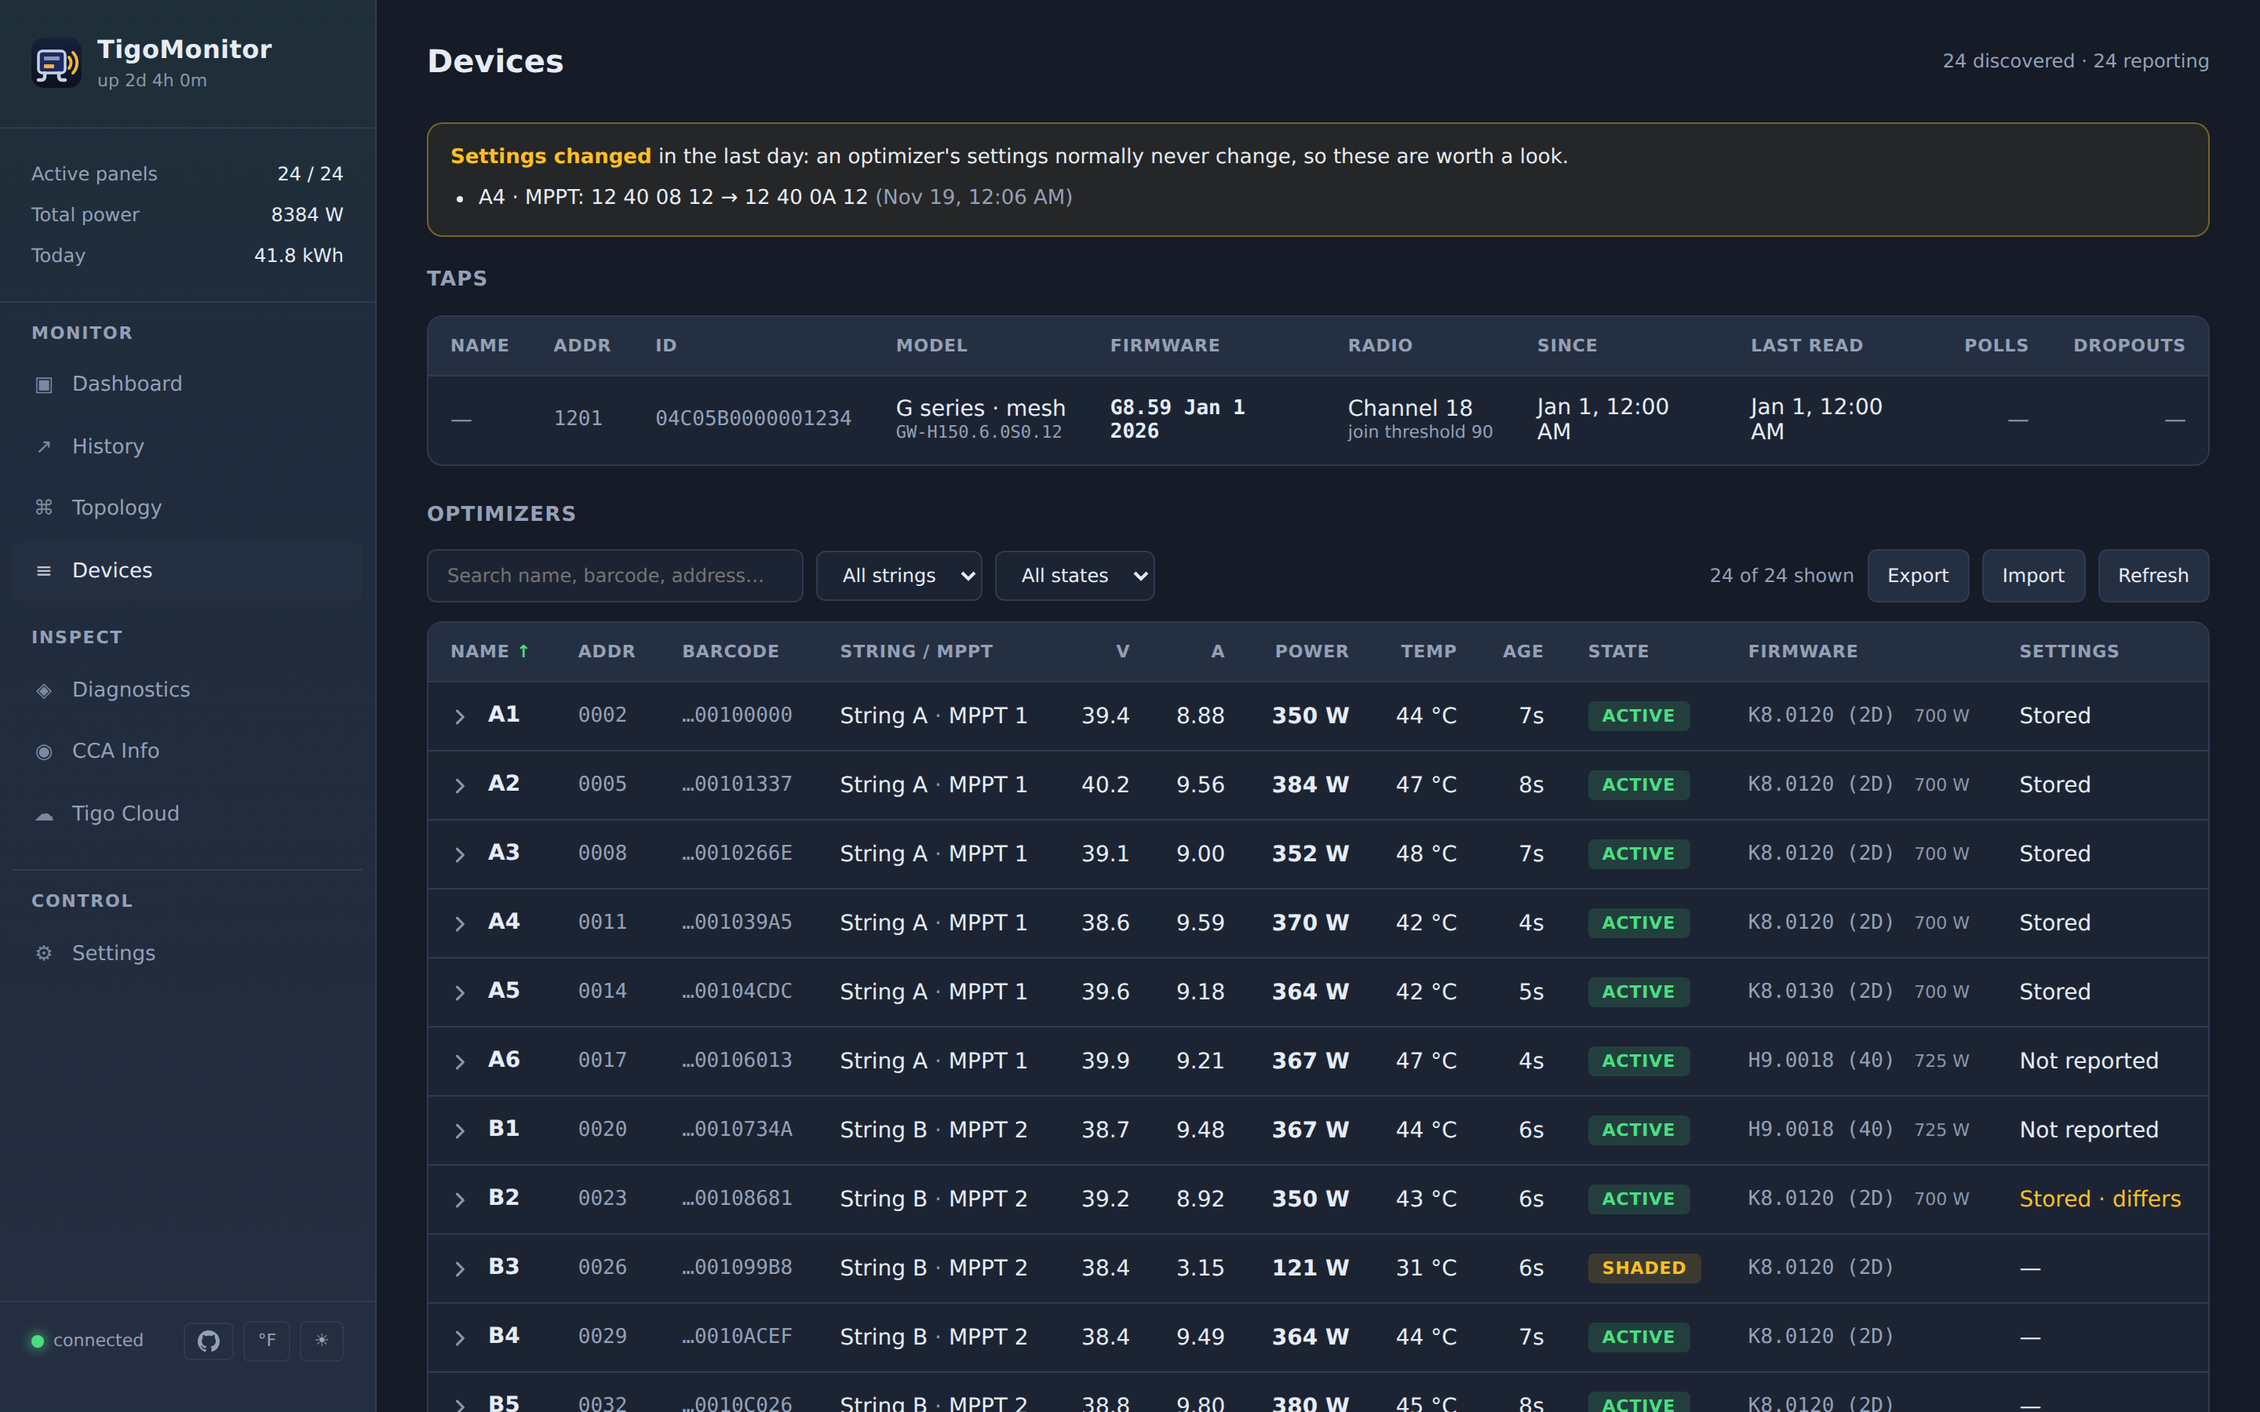
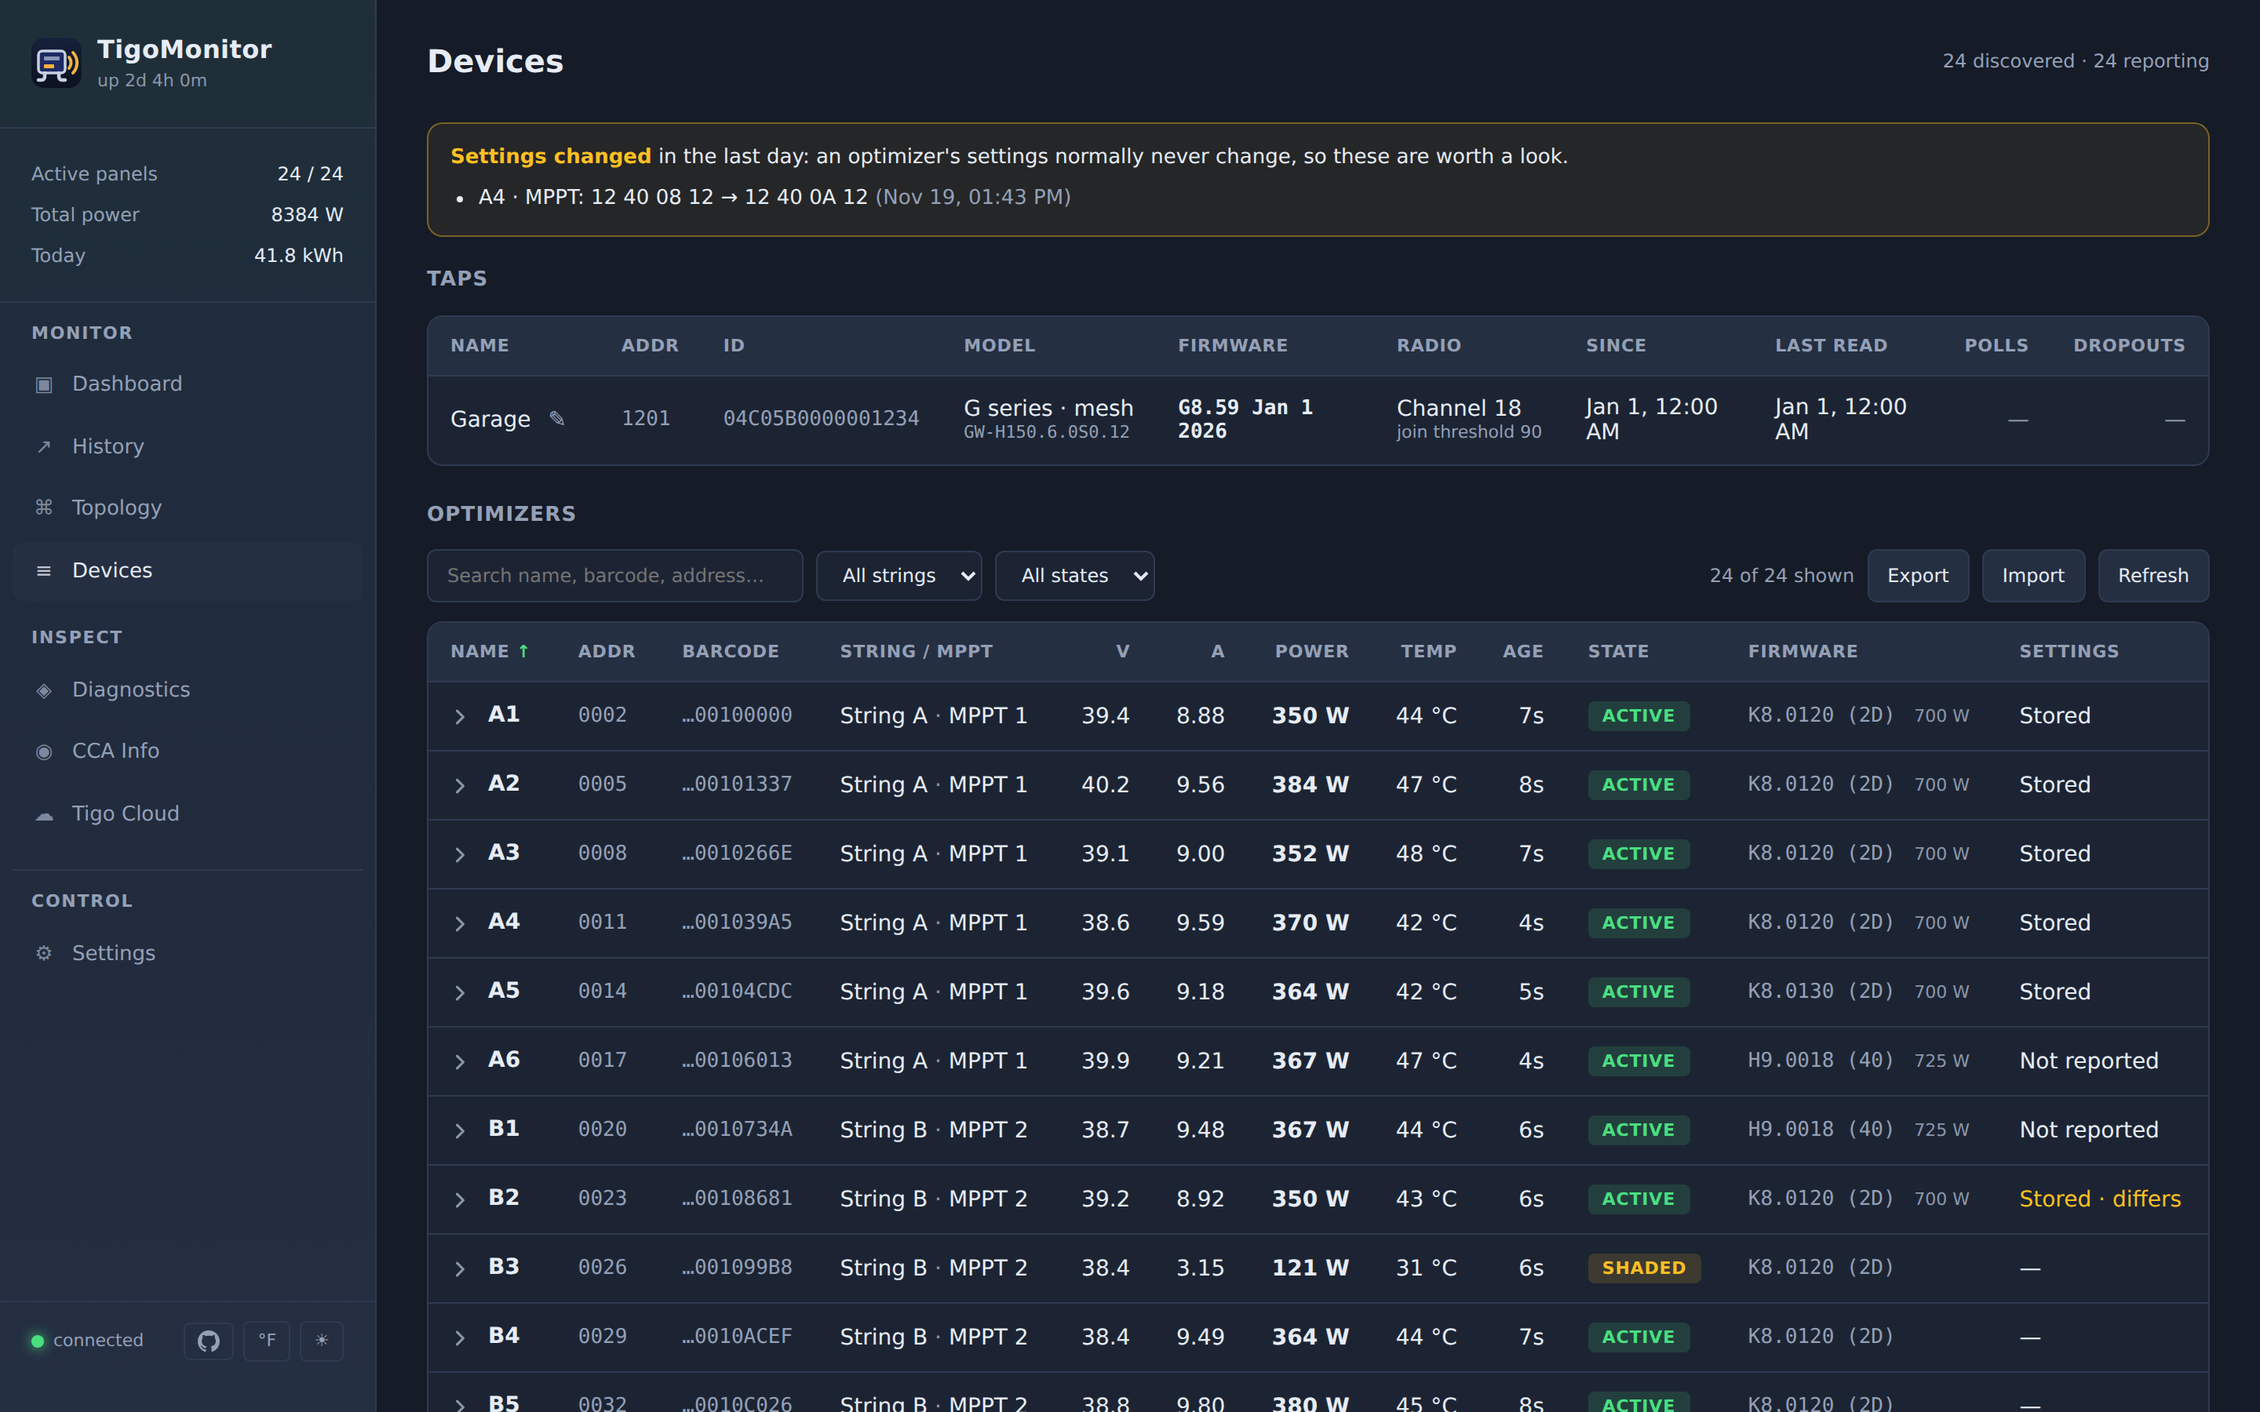
feat(tigo_server): name TAPs on the ESP32 — kept in its settings storage
TAP names were Pi-only: the Pi keeps them in its state file and adds
them to /api/versions, and the ESP32 page showed "—" in their place.

The ESP32 now keeps up to eight names, a TAP address and up to 32
bytes each (282 bytes in all), in PSRAM and in the settings storage
(NVS). POST /api/taps/name takes the Pi's body and gives its answers,
including its error for a bad address or a long name, and an empty
name clears one. A ninth TAP is refused with "clear one first". The
handler runs on the web server task and only changes the copy in
PSRAM, under the state lock. The loop writes it to NVS, as tigo_master
does with its saved TAPs.

The book takes a name lookup (set_tap_name_of). It writes each name
into the API's TAP entries, both read and only polled, and never into
a saved copy. The Pi doesn't set it and adds its own names as before.
The page offers renaming on both builds. The rename box now also
starts with the current name of a TAP that has only been polled.

Verified:
- bus_book_test: the new name test failed to build before
  set_tap_name_of existed and passes after. That covers both kinds of
  entry, a quote in a name, no name, and no names in the saved copy.
  All host tests pass and the daemon builds.
- Site tests: the new ESP32 rename test and the updated ESP32 TAP-list
  test failed before the page change; 265/265 pass after.
- The Nodes screenshot now shows the fixture TAP's name with its
  rename button. The other PNGs changed only in dates and are not
[…]

diff --git a/components/tigo_server/web/app.html b/components/tigo_server/web/app.html
@@ -4501,8 +4501,9 @@
         ? `<div class="tap-sub">last ${new Date(m.tap.last_lost_unix * 1000).toLocaleTimeString([], { hour: '2-digit', minute: '2-digit' })}</div>` : '';
       return `<td class="num">${t.polls.toLocaleString()}${unanswered}</td><td class="num">${t.lost.toLocaleString()}${last}</td>`;
     };
-    // A name, kept on the Pi and shown on the mesh map too; the ESP32 keeps none.
-    const name = t => PLATFORM !== 'linux' ? '<td class="tap-name" style="color:var(--text-faint)">—</td>' : `<td class="tap-name" data-tap="${topoEscape(t.addr)}">${t.name
+    // A name, kept by the monitor (on the ESP32, in its settings storage) and
+    // shown on the mesh map too.
+    const name = t => `<td class="tap-name" data-tap="${topoEscape(t.addr)}">${t.name
       ? `<span>${topoEscape(t.name)}</span><button type="button" class="tap-rename" aria-label="Rename TAP ${topoEscape(t.addr)}" title="Rename"></button>`
       : `<button type="button" class="tap-rename add">Add a name</button>`}</td>`;
     // A TAP answering polls (in the last day) whose firmware no master has
@@ -5610,7 +5611,8 @@
     const b = e.target.closest('button.tap-rename');
     if (!b) return;
     const td = b.closest('td.tap-name'), tap = td.dataset.tap;
-    const t = ((nodesData.versions || {}).taps || []).find(x => x.addr === tap) || {};
+    const v = nodesData.versions || {};
+    const t = (v.taps || []).find(x => x.addr === tap) || (v.polled || []).find(x => x.tap === tap) || {};
     td.innerHTML = `<input class="input compact" maxlength="32" aria-label="Name for TAP ${topoEscape(tap)}" placeholder="e.g. Garage">`;
     const input = td.querySelector('input');
     input.value = t.name || '';

diff --git a/components/tigo_monitor/tigo_monitor.cpp b/components/tigo_monitor/tigo_monitor.cpp
@@ -437,6 +437,10 @@ void TigoMonitorComponent::loop() {
   StateLock lock(state_mutex_);
   process_serial_data();
   if (bus_book_) keep_bus_book_();
+  if (tap_names_dirty_) {
+    tap_names_dirty_ = false;
+    tap_names_pref_.save(tap_names_.get());
+  }
   
 #ifdef USE_ESP_IDF
   // Periodic heap and stack monitoring (every 60 seconds) to detect memory leaks/stack issues
@@ -3578,7 +3582,48 @@ void TigoMonitorComponent::enable_bus_book() {
       if (strcasecmp(n.addr.c_str(), a) == 0) return std::string(n.long_address.c_str());
     return std::string();
   });
+  tap_names_ = make_psram_unique<TapNames>();
+  memset(tap_names_.get(), 0, sizeof(TapNames));
+  tap_names_pref_ = global_preferences->make_preference<TapNames>(fnv1_hash("tigo_tap_names"));
+  if (!tap_names_pref_.load(tap_names_.get())) memset(tap_names_.get(), 0, sizeof(TapNames));
+  for (auto &n : tap_names_->name) n[TapNames::LEN] = '\0';
+  bus_book_->set_tap_name_of([this](uint16_t tap) {
+    for (int i = 0; i < TapNames::MAX; i++)
+      if (tap_names_->addr[i] == tap && tap_names_->name[i][0]) return master::Str(tap_names_->name[i]);
+    return master::Str();
+  });
   ESP_LOGI(TAG, "Keeping each device's firmware, settings and ratings as heard on the bus");
+}
+
+const char *TigoMonitorComponent::set_tap_name(const std::string &tap, const std::string &name) {
+  static const char *const BAD = "a TAP is 4 hex digits, and a name at most 32 characters";
+  if (!tap_names_) return "this monitor keeps no TAP names";
+  if (tap.size() != 4 || tap.find_first_not_of("0123456789abcdefABCDEF") != std::string::npos) return BAD;
+  uint16_t addr = static_cast<uint16_t>(strtoul(tap.c_str(), nullptr, 16));
+  if (addr == 0) return BAD;
+  size_t a = name.find_first_not_of(" \t"), b = name.find_last_not_of(" \t");
+  size_t len = a == std::string::npos ? 0 : b - a + 1;
+  if (len > static_cast<size_t>(TapNames::LEN)) return BAD;
+  int slot = -1, free_slot = -1;
+  for (int i = 0; i < TapNames::MAX; i++) {
+    if (tap_names_->addr[i] == addr) slot = i;
+    else if (tap_names_->addr[i] == 0 && free_slot < 0) free_slot = i;
+  }
+  if (len == 0) {
+    if (slot < 0) return nullptr;
+    tap_names_->addr[slot] = 0;
+    tap_names_->name[slot][0] = '\0';
+    ESP_LOGI(TAG, "TAP %04X has no name now", addr);
+  } else {
+    if (slot < 0) slot = free_slot;
+    if (slot < 0) return "names for eight TAPs at most: clear one first";
+    tap_names_->addr[slot] = addr;
+    memcpy(tap_names_->name[slot], name.data() + a, len);
+    tap_names_->name[slot][len] = '\0';
+    ESP_LOGI(TAG, "TAP %04X is named %s", addr, tap_names_->name[slot]);
+  }
+  tap_names_dirty_ = true;
+  return nullptr;
 }
 
 // Each frame, as the bus gave it (escaped, between 7E 07 and 7E 08), after

diff --git a/components/tigo_server/tigo_web_server.cpp b/components/tigo_server/tigo_web_server.cpp
@@ -274,6 +274,15 @@ void TigoWebServer::setup() {
     };
     httpd_register_uri_handler(server_, &api_versions_uri);
 
+    // A TAP's name, by its address, as the Pi takes it; an empty name clears it.
+    httpd_uri_t api_tap_name_uri = {
+      .uri = "/api/taps/name",
+      .method = HTTP_POST,
+      .handler = api_tap_name_handler,
+      .user_ctx = this
+    };
+    httpd_register_uri_handler(server_, &api_tap_name_uri);
+
     httpd_uri_t api_strings_uri = {
       .uri = "/api/strings",
       .method = HTTP_GET,
@@ -2772,6 +2781,47 @@ void TigoWebServer::build_strings_json(PSRAMString& json) {
 namespace {
 void append_json_str(PSRAMString &out, const std::string &in);  // with the layout handlers below
 }  // namespace
+
+// POST {"tap": "1201", "name": "..."}: answered as the Pi answers it.
+esp_err_t TigoWebServer::api_tap_name_handler(httpd_req_t *req) {
+  TigoWebServer *server = static_cast<TigoWebServer *>(req->user_ctx);
+  if (!server->check_api_auth(req)) return ESP_OK;
+  httpd_resp_set_type(req, "application/json");
+  auto fail = [&](const char *status, const char *why) {
+    PSRAMString out;
+    out.append("{\"error\":");
+    append_json_str(out, why);
+    out.append("}");
+    httpd_resp_set_status(req, status);
+    httpd_resp_send(req, out.c_str(), out.length());
+    return ESP_OK;
+  };
+  if (server->parent_ == nullptr) return fail("503 Service Unavailable", "monitor not bound");
+  char body[256];
+  int ret = httpd_req_recv(req, body, sizeof(body) - 1);
+  if (ret <= 0) return fail("400 Bad Request", "empty body");
+  body[ret] = '\0';
+  cJSON *root = cJSON_Parse(body);
+  cJSON *t = root ? cJSON_GetObjectItem(root, "tap") : nullptr;
+  cJSON *n = root ? cJSON_GetObjectItem(root, "name") : nullptr;
+  if (!t || !cJSON_IsString(t) || !n || !cJSON_IsString(n)) {
+    if (root) cJSON_Delete(root);
+    return fail("400 Bad Request", "expected {\"tap\": \"1201\", \"name\": \"...\"}");
+  }
+  std::string tap = t->valuestring, name = n->valuestring;
+  cJSON_Delete(root);
+  const char *why = nullptr;
+  server->parent_->with_state_lock([&] { why = server->parent_->set_tap_name(tap, name); });
+  if (why != nullptr) return fail("400 Bad Request", why);
+  PSRAMString out;
+  out.append("{\"tap\":");
+  append_json_str(out, tap);
+  out.append(",\"name\":");
+  append_json_str(out, name);
+  out.append("}");
+  httpd_resp_send(req, out.c_str(), out.length());
+  return ESP_OK;
+}
 
 void TigoWebServer::build_inverters_json(PSRAMString& json) {
   json.append("{\"inverters\":[");

diff --git a/components/tigo_monitor/bus_book.h b/components/tigo_monitor/bus_book.h
@@ -46,6 +46,9 @@ class BusBook {
   // address another optimizer has taken since (a gateway renumbering) then
   // starts that address's record afresh instead of logging a change.
   void set_barcode_of(std::function<std::string(uint16_t)> f) { barcode_of_ = std::move(f); }
+  // A TAP's name, or "": the ESP32 keeps them itself, and the API's TAP
+  // entries (read or only polled) carry them. The Pi adds its own instead.
+  void set_tap_name_of(std::function<Str(uint16_t)> f) { tap_name_of_ = std::move(f); }
 
   // After each frame BusWatch was given. runs_bus: this monitor runs the bus
   // now; while another master runs it, what an optimizer reports changed is
@@ -305,6 +308,12 @@ class BusBook {
       std::snprintf(b, sizeof(b), "%lld", v);
       out.append(b);
     };
+    // Into an API answer only: the names are kept elsewhere, not in a saved copy.
+    auto name = [&](uint16_t tap) {
+      if (with_pans || !tap_name_of_) return;
+      Str n = tap_name_of_(tap);
+      if (!n.empty()) out.append(","), key("name"), str(n);
+    };
     auto entry = [&](const VersionBook::Entry &e) {
       out.append("{");
       key("addr"), hex(e.addr), out.append(",");
@@ -313,6 +322,7 @@ class BusBook {
       key("previous"), str(e.previous), out.append(",");
       key("since_unix_ms"), num(e.since_ms), out.append(",");
       key("last_unix_ms"), num(e.last_ms);
+      if (e.tap) name(e.addr);
       out.append("}");
     };
     out.append("{");
@@ -367,6 +377,7 @@ class BusBook {
       out.append("{");
       key("tap"), hex(kv.first), out.append(",");
       key("heard_unix_ms"), num(kv.second);
+      name(kv.first);
       out.append("}");
     }
     out.append("],");
@@ -511,6 +522,7 @@ class BusBook {
 
   Log log_;
   std::function<std::string(uint16_t)> barcode_of_;
+  std::function<Str(uint16_t)> tap_name_of_;
 };
 
 }  // namespace master

diff --git a/tests/host/bus_book_test.cpp b/tests/host/bus_book_test.cpp
@@ -163,6 +163,28 @@ static void test_a_tap_answering_polls_is_listed() {
   CHECK(j["taps"].empty());
 }
 
+// The ESP32 keeps TAP names itself: given a way to look them up, the book
+// writes each into the API's TAP entries, read or only polled, and never
+// into a saved copy (the names are kept elsewhere).
+static void test_a_tap_name_goes_into_the_api() {
+  BusBook b;
+  b.versions.record({true, 0x1201, "Mgate", "G8.59"}, 1000);
+  b.hear_poll_reply(0x9201, 1000);
+  b.hear_poll_reply(0x9202, 1000);
+  b.set_tap_name_of([](uint16_t tap) { return tap == 0x1202 ? Str("Attic \"B\"") : tap == 0x1201 ? Str("Garage") : Str(); });
+  json j = json::parse(json_of(b, false), nullptr, false);
+  CHECK(j.is_object());
+  if (!j.is_object()) return;
+  CHECK(j["taps"][0]["name"] == "Garage");
+  CHECK(j["polled"][0]["name"] == "Garage" && j["polled"][1]["name"] == "Attic \"B\"");
+  b.set_tap_name_of([](uint16_t) { return Str(); });
+  j = json::parse(json_of(b, false), nullptr, false);
+  CHECK(!j["taps"][0].contains("name") && !j["polled"][1].contains("name"));
+  b.set_tap_name_of([](uint16_t) { return Str("Garage"); });
+  json saved = json::parse(json_of(b, true), nullptr, false);
+  CHECK(!saved["taps"][0].contains("name") && !saved["polled"][0].contains("name"));
+}
+
 // A tab or newline inside a field can't split a record: it becomes a space.
 static void test_a_tab_in_a_field_stays_in_its_field() {
   BusBook a;
@@ -195,6 +217,7 @@ int main() {
   test_odd_text_is_escaped();
   test_the_saved_copy_reads_back();
   test_a_tap_answering_polls_is_listed();
+  test_a_tap_name_goes_into_the_api();
   test_a_tab_in_a_field_stays_in_its_field();
   test_a_bad_line_is_skipped();
   if (failures) {

diff --git a/components/tigo_monitor/tigo_monitor.h b/components/tigo_monitor/tigo_monitor.h
@@ -645,6 +645,11 @@ class TigoMonitorComponent : public PollingComponent, public uart::UARTDevice {
   // with_state_lock(); null until then.
   void enable_bus_book();
   const master::BusBook *bus_book() const { return bus_book_.get(); }
+  // A TAP's name on the Devices page, kept in the settings storage (eight
+  // TAPs at most) and written into /api/versions; an empty name clears it.
+  // Inside with_state_lock(), after enable_bus_book(). nullptr when taken,
+  // else why not, for the page.
+  const char *set_tap_name(const std::string &tap, const std::string &name);
   int get_number_of_devices() const { return number_of_devices_; }
   const std::string& get_cca_ip() const { return cca_ip_; }
   bool get_sync_cca_on_startup() const { return sync_cca_on_startup_; }
@@ -1126,6 +1131,16 @@ class TigoMonitorComponent : public PollingComponent, public uart::UARTDevice {
   static const uint32_t BUS_BOOK_SAVE_EVERY_MS = 15UL * 60UL * 1000UL;
   void feed_bus_book_(const frame_string &frame);
   void keep_bus_book_();
+  // See set_tap_name(). Also the stored form; saved from the loop, since the
+  // settings storage is not the web server task's to write.
+  struct TapNames {
+    static const int MAX = 8, LEN = 32;
+    uint16_t addr[MAX];
+    char name[MAX][LEN + 1];
+  };
+  psram_unique<TapNames> tap_names_;
+  ESPPreferenceObject tap_names_pref_;
+  bool tap_names_dirty_ = false;
 
 #ifdef TIGO_TSDB_AVAILABLE
   TigoHistory history_;

diff --git a/components/tigo_server/tigo_web_server.h b/components/tigo_server/tigo_web_server.h
@@ -265,6 +265,7 @@ class TigoWebServer : public Component
   static esp_err_t api_node_table_handler(httpd_req_t *req);
   static esp_err_t api_strings_handler(httpd_req_t *req);
   static esp_err_t api_versions_handler(httpd_req_t *req);
+  static esp_err_t api_tap_name_handler(httpd_req_t *req);
   static esp_err_t api_energy_history_handler(httpd_req_t *req);
   static esp_err_t api_inverters_handler(httpd_req_t *req);
   static esp_err_t api_inverters_rename_handler(httpd_req_t *req);

diff --git a/CHANGELOG.md b/CHANGELOG.md
@@ -14,7 +14,8 @@ and this project adheres to [Semantic Versioning](https://semver.org/spec/v2.0.0
   carries, so they appear once a master asks the optimizers: a Pi, a CCA,
   or an ESP32 master with `queries: true`. A board with history keeps them
   across a reboot. The ESP32 lists a changed setting only when it runs the
-  bus, and as a listener it never does. Renaming a TAP stays on the Pi.
+  bus, and as a listener it never does. TAPs can be named there too; the
+  ESP32 keeps up to eight names in its settings storage.
   Each TAP is listed as soon as it answers polls; its firmware and radio
   fill in when a master next brings it up, which a listener may not hear
   for days.
